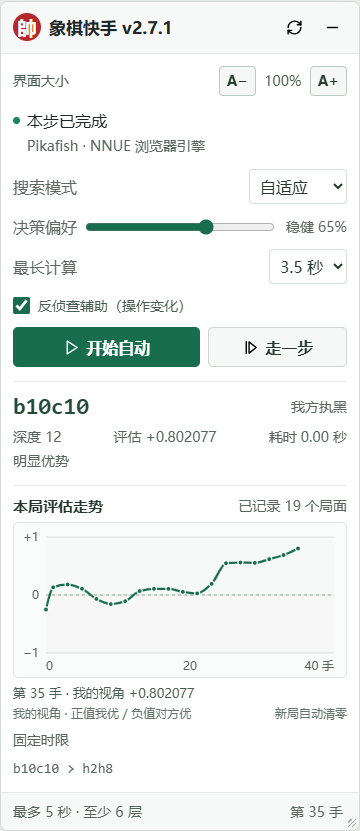
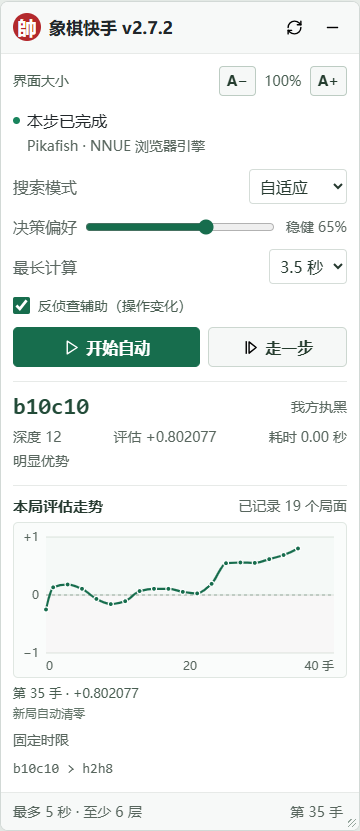
fix: remove redundant evaluation perspective labels in v2.7.2

Changed region(s): [[0.0306, 0.8123, 0.5194, 0.8724], [0.7639, 0.8424, 0.9778, 0.8724], [0.4583, 0.0301, 0.4889, 0.0602]]

diff --git a/安装说明.html b/安装说明.html
@@ -2,17 +2,17 @@
 <html lang="zh-CN">
 <head>
 <meta charset="utf-8"><meta name="viewport" content="width=device-width,initial-scale=1">
-<title>象棋快手 v2.7.1 · 安装说明</title>
+<title>象棋快手 v2.7.2 · 安装说明</title>
 <style>*{box-sizing:border-box}body{margin:0;background:#f5f7f6;color:#24352b;font:16px/1.8 "Microsoft YaHei",system-ui,sans-serif}main{max-width:780px;margin:36px auto;padding:0 24px 40px}header{display:flex;gap:14px;align-items:center;border-bottom:1px solid #d9e0db;padding-bottom:20px}header img{width:54px;height:54px}h1{margin:0;font-size:27px}header p{margin:0;color:#6b776f}h2{font-size:19px;margin:26px 0 8px}ol{padding-left:24px}li{margin:10px 0}code{font:14px Consolas,monospace;background:#e9eeeb;padding:3px 7px;border-radius:3px;overflow-wrap:anywhere}a{color:#176d4d}table{width:100%;border-collapse:collapse;margin:12px 0}th,td{text-align:left;padding:10px 12px;border-bottom:1px solid #d9e0db}th{color:#637268;font-weight:500}p{margin:10px 0}footer{margin-top:28px;border-top:1px solid #d9e0db;padding-top:16px;font-size:14px}@media(max-width:500px){main{margin-top:20px;padding:0 16px 28px}h1{font-size:23px}th,td{padding:8px 5px}}</style>
 </head>
 <body><main>
-<header><img src="extension/icons/icon128.png" alt="象棋快手图标"><div><h1>象棋快手 v2.7.1</h1><p>Pikafish NNUE · 对局、题库与棋盘分析</p></div></header>
+<header><img src="extension/icons/icon128.png" alt="象棋快手图标"><div><h1>象棋快手 v2.7.2</h1><p>Pikafish NNUE · 对局、题库与棋盘分析</p></div></header>
 <h2>安装与更新</h2>
 <ol>
-<li>从 <a href="https://github.com/zhaopengbo-0702/xiangqi-quick-hands/releases/latest">GitHub Releases</a> 下载 <code>xiangqi-quick-hands-v2.7.1.zip</code> 并解压。</li>
+<li>从 <a href="https://github.com/zhaopengbo-0702/xiangqi-quick-hands/releases/latest">GitHub Releases</a> 下载 <code>xiangqi-quick-hands-v2.7.2.zip</code> 并解压。</li>
 <li>Edge 打开 <code>edge://extensions</code>，Chrome 打开 <code>chrome://extensions</code>，开启“开发人员模式”。</li>
 <li>点击“加载解压缩的扩展”，选择直接包含 <code>manifest.json</code> 的目录。源码安装时选择 <a href="extension/">extension 文件夹</a>，保留安装目录供浏览器加载。</li>
-<li>更新旧版时，用新版文件替换原目录并点击“重新加载”。刷新棋盘，确认面板标题显示 v2.7.1。</li>
+<li>更新旧版时，用新版文件替换原目录并点击“重新加载”。刷新棋盘，确认面板标题显示 v2.7.2。</li>
 <li>进入自己的对局，等待“引擎就绪”，点击“开始自动”或“走一步”。首次预热需要数秒。</li>
 </ol>
 <p>适用 Chrome / Edge 116 或更新版本。浏览器独立包内含 WASM 引擎、NNUE、对应源码和许可证。</p>
@@ -20,7 +20,7 @@
 <p>“搜索模式”“最长计算”和自适应模式下的“决策偏好”可随时调整，新设置从下一步生效。滑条百分比实时更新，松开后保存，刷新后恢复。</p>
 <table><tbody><tr><th>推荐模式</th><td>自适应</td></tr><tr><th>决策偏好</th><td>65%</td></tr><tr><th>最长计算</th><td>3.5 秒</td></tr><tr><th>普通搜索深度</th><td>至少 6 层</td></tr></tbody></table>
 <h2>本局评估走势</h2>
-<p>主面板平滑走势曲线随每次成功计算更新。横轴是评估局面的手数，每手表示一个单方步；纵轴固定为 −1 至 +1。参与对局时自动按自己控制的棋子显示，图例和提示统一标注“我的视角”。正值自己有利、负值对方有利，零线表示均势。观战或分析棋盘没有可确认的我方身份时显示“分析视角”。</p>
+<p>主面板平滑走势曲线随每次成功计算更新。横轴是评估局面的手数，每手表示一个单方步；纵轴固定为 −1 至 +1。参与对局时自动按自己控制的棋子计算，正值自己有利、负值对方有利，零线表示均势。记录点提示直接显示手数和评估值，图下仅保留新局自动清零提示。</p>
 <p>连线采用保形分段三次 Hermite / PCHIP 插值，一阶导数连续且段内保持在相邻样点范围内。平滑仅影响连线，实际评估点不变。</p>
 <p>普通评分沿用现有六位局势指数；非零杀棋点标记在 ±1，参与对局时标注我方或对方杀棋，“杀棋 0”跳过图表记录。数字评估继续显示“杀棋 N”。同一手再次计算更新对应点，暂停、收起面板和重连引擎后保留本局记录。</p>
 <p>启动后会真实计算本局初始局面，补齐第 0 手评估；开局采集只做分析，不落子，也不预设零分。执黑时同样先采集开局点，再记录正常行棋评估。采集失败不会暂停自动行棋，稍后重试。</p>
@@ -43,5 +43,5 @@
 <h2>连接恢复</h2>
 <p>更新扩展后刷新棋盘，等待新面板就绪。页面提示“插件已更新，请重新连接”时，可点击浏览器工具栏的扩展按钮恢复面板，再重新开启自动行棋。</p>
 <p>开发工具、原生兼容性和旧版组件管理见 <a href="CONTRIBUTING.md">开发说明</a>。源码与网络权重的许可见 <a href="THIRD_PARTY_NOTICES.md">第三方授权与来源</a>。</p>
-<footer><a href="README.md">完整说明</a> · <a href="CHANGELOG.md">逐版更新记录</a> · 版本 2.7.1</footer>
+<footer><a href="README.md">完整说明</a> · <a href="CHANGELOG.md">逐版更新记录</a> · 版本 2.7.2</footer>
 </main></body></html>

diff --git a/extension/content.js b/extension/content.js
@@ -63,7 +63,7 @@
   <g class="evaluation-axis"><text x="25" y="18" text-anchor="end">+1</text><text x="25" y="76" text-anchor="end">0</text><text x="25" y="134" text-anchor="end">−1</text><text id="evaluation-x-start" x="32" y="147">0</text><text id="evaluation-x-middle" x="176" y="147" text-anchor="middle">5</text><text id="evaluation-x-end" x="320" y="147" text-anchor="end">10 手</text></g>
   <rect x="32" y="14" width="288" height="58" fill="#176d4d" fill-opacity=".025"/><rect x="32" y="72" width="288" height="58" fill="#ad393d" fill-opacity=".025"/>
   <path id="evaluation-line" class="evaluation-line" d=""/><g id="evaluation-points"></g><path id="evaluation-cursor" class="hidden" d=""/><circle id="evaluation-active" class="hidden" r="4"/>
-  </svg><div id="evaluation-empty">等待首个评估</div></div><div id="evaluation-tooltip">每次有效计算记录一个点</div><div class="evaluation-legend"><span id="evaluation-viewpoint">我的视角 · 正值我优 / 负值对方优</span><span>新局自动清零</span></div></section>
+  </svg><div id="evaluation-empty">等待首个评估</div></div><div id="evaluation-tooltip">每次有效计算记录一个点</div><div class="evaluation-legend"><span>新局自动清零</span></div></section>
   <div class="importance"><span id="importance">重要性 -</span><span id="allocated">预算 -</span></div><div id="pv" class="pv"></div>
   <div id="stop-reason" class="stop-reason hidden" role="status"></div>
   </main><footer><span id="footer">最多 5 秒 · 至少 6 层</span><span id="plies">第 0 手</span></footer></div>
@@ -177,10 +177,9 @@
   const chartY = value => 72 - 58 * value;
   const chartCoordinate = value => Number(value.toFixed(6));
   const signedEvaluation = value => `${value > 0 ? '+' : ''}${value.toFixed(6)}`;
-  const evaluationPerspectiveLabel = () => evaluationControlled ? '我的视角' : '分析视角';
   function evaluationPointLabel(point) {
     const favored = evaluationControlled ? (point.value > 0 ? '我方' : '对方') : (point.value > 0 ? '红方' : '黑方');
-    return `第 ${point.ply} 手 · ${evaluationPerspectiveLabel()} ${point.mate ? `${favored}杀棋 ${Math.abs(point.mate)}` : signedEvaluation(point.value)}`;
+    return `第 ${point.ply} 手 · ${point.mate ? `${favored}杀棋 ${Math.abs(point.mate)}` : signedEvaluation(point.value)}`;
   }
   function showEvaluationPoint(index) {
     const point = evaluationPoints[index];
@@ -246,8 +245,7 @@
     evaluationChart.dataset.count = String(evaluationPoints.length);
     evaluationChart.dataset.perspective = evaluationSide;
     evaluationChart.dataset.controlled = String(evaluationControlled);
-    evaluationChart.setAttribute('aria-label', `本局评估曲线，${evaluationPerspectiveLabel()}，横轴为手数，纵轴范围负1到正1`);
-    $('evaluation-viewpoint').textContent = evaluationControlled ? '我的视角 · 正值我优 / 负值对方优' : '分析视角';
+    evaluationChart.setAttribute('aria-label', '本局评估曲线，横轴为手数，纵轴范围负1到正1');
     $('evaluation-empty').classList.toggle('hidden', evaluationPoints.length > 0);
     hideEvaluationPoint();
   }

diff --git a/README.md b/README.md
@@ -1,20 +1,20 @@
-# 象棋快手 v2.7.1
+# 象棋快手 v2.7.2
 
 [下载发行版](https://github.com/zhaopengbo-0702/xiangqi-quick-hands/releases/latest) · [逐版更新记录](CHANGELOG.md) · [评估公式](docs/evaluation-mapping.md) · [问题反馈](https://github.com/zhaopengbo-0702/xiangqi-quick-hands/issues) · [自动检查](https://github.com/zhaopengbo-0702/xiangqi-quick-hands/actions)
 
 Chrome / Edge 浏览器扩展，内置 Pikafish WASM 与 NNUE，支持 Xiangqi.com 对局、题库和棋盘分析。面板支持拖动、整体缩放、后台运行，以及运行中调整搜索参数。
 
-**2.7.1** 将本局评估走势改为“我的视角”，向上始终表示自己占优，并真实计算开局局面，补齐第 0 手评估点。评分沿用 PCHIP 插值，转换链、五段函数、系数和计算示例见 [评估转换与插值函数](docs/evaluation-mapping.md)。
+**2.7.2** 精简走势图中的重复说明，记录点提示直接显示手数与评估值。曲线继续按自己控制的棋子计算，并保留第 0 手真实开局采集。评分沿用 PCHIP 插值，转换链、五段函数、系数和计算示例见 [评估转换与插值函数](docs/evaluation-mapping.md)。
 
 ## 安装与更新
 
-使用 Chrome / Edge 116 或更新版本，下载 [xiangqi-quick-hands-v2.7.1.zip](https://github.com/zhaopengbo-0702/xiangqi-quick-hands/releases/download/v2.7.1/xiangqi-quick-hands-v2.7.1.zip)。安装包内含扩展、引擎、网络、对应源码和许可证。
+使用 Chrome / Edge 116 或更新版本，下载 [xiangqi-quick-hands-v2.7.2.zip](https://github.com/zhaopengbo-0702/xiangqi-quick-hands/releases/download/v2.7.2/xiangqi-quick-hands-v2.7.2.zip)。安装包内含扩展、引擎、网络、对应源码和许可证。
 
 1. 解压安装包，保留整个目录。
 2. Edge 打开 `edge://extensions`；Chrome 打开 `chrome://extensions`。
 3. 开启“开发人员模式”，点击“加载解压缩的扩展”，选择直接包含 `manifest.json` 的目录。
 4. 更新旧版时，用新版文件替换原目录，再点击扩展的“重新加载”。
-5. 刷新棋盘，确认面板标题为 **象棋快手 v2.7.1**。等待“引擎就绪”，点击“开始自动”或“走一步”。首次预热需要数秒。
+5. 刷新棋盘，确认面板标题为 **象棋快手 v2.7.2**。等待“引擎就绪”，点击“开始自动”或“走一步”。首次预热需要数秒。
 
 源码安装时选择仓库中的 `extension` 文件夹。浏览器工具栏的扩展按钮可以展开或收起面板，安装目录用于浏览器持续加载扩展。安装包使用带版本号的文件名，校验值见同版 `SHA256SUMS.txt`。
 
@@ -42,11 +42,11 @@ Chrome / Edge 浏览器扩展，内置 Pikafish WASM 与 NNUE，支持 Xiangqi.c
 
 ## 本局评估走势
 
-![象棋快手 v2.7.1 我的视角评估走势](docs/assets/evaluation-history-panel.png)
+![象棋快手 v2.7.2 本局评估走势](docs/assets/evaluation-history-panel.png)
 
 界面示例，使用模拟评估数据。
 
-主面板中的平滑走势曲线随每次成功计算更新，横轴为评估所在局面的手数，每一手表示一个单方步；纵轴固定为 −1 至 +1。参与对局时，曲线自动采用自己控制棋子的视角，面板统一显示“我的视角”。正值自己有利、负值对方有利，零线表示均势，双方轮流行棋时保持同一比较方向。观战或分析棋盘没有可确认的我方身份时，面板显示“分析视角”。
+主面板中的平滑走势曲线随每次成功计算更新，横轴为评估所在局面的手数，每一手表示一个单方步；纵轴固定为 −1 至 +1。参与对局时，曲线自动按自己控制的棋子计算，正值自己有利、负值对方有利，零线表示均势，双方轮流行棋时保持同一比较方向。普通记录点提示直接显示“第 35 手 · +0.743158”这样的手数与评估值，图下仅保留新局自动清零提示。
 
 连线采用保形分段三次 Hermite 插值（PCHIP），相邻段的一阶导数连续，段内保持在相邻两个评估点的数值范围内。曲线平滑仅影响连线，实际评估点不变。这一步用于连接对局中的记录点，与下节将原始评分转换为面板分数的 PCHIP 用途不同。全部节点斜率、Hermite 函数和 SVG 控制点公式见 [走势记录与平滑公式](docs/evaluation-history.md)。
 

diff --git a/docs/evaluation-history.md b/docs/evaluation-history.md
@@ -2,6 +2,8 @@
 
 自 v2.7.0 起，主面板用平滑曲线连接本局已计算局面的评估点；v2.7.1 将参与对局时的曲线改为“我的视角”，并加入初始局面的第 0 手真实采集。本页说明当前记录规则、视角变换、全部插值公式和 SVG 绘制关系，对应 [`extension/content.js`](../extension/content.js) 中的 `recordEvaluation`、`evaluationCurvePath` 与 `renderEvaluationHistory`。
 
+v2.7.2 精简走势图的重复文字：图下仅保留“新局自动清零”，普通记录点提示只显示手数与评估值，例如“第 35 手 · +0.743158”；杀棋点继续标明我方或对方。评分方向、开局采集与平滑函数保持原规则。
+
 ## 实际记录了什么
 
 每次成功计算记录一个点，横坐标是该次计算开始时棋盘的 `moveCount`。每一手表示一个单方步，开局局面记为第 0 手。同一手再次计算会更新原记录，然后按手数排序。鼠标指向曲线或用键盘聚焦记录点时，可查看对应手数和实际评估。
@@ -25,7 +27,7 @@
 
 每次搜索的普通面板分数 $`s_i`$ 已完成原始评分的 tanh、PCHIP、上限限制和六位舍入，详细定义见 [评估转换与插值函数](evaluation-mapping.md)。该分数以搜索开始时的行棋方为正方向。这里不重新变换分数的大小，只统一整局曲线的比较方向。
 
-令 $`p`$ 为图表视角方。网站确认当前用户参与对局，即 `participant === true`，并能识别 `playerSide` 为红方或黑方时，$`p`$ 取我方控制棋子的颜色，面板标注“我的视角”。其他情况（例如没有我方身份的观战、分析棋盘）取红方作为统一分析基准，面板标注“分析视角”。令该记录局面的行棋方为 $`a_i`$，符号因子为：
+令 $`p`$ 为图表视角方。网站确认当前用户参与对局，即 `participant === true`，并能识别 `playerSide` 为红方或黑方时，$`p`$ 取我方控制棋子的颜色。其他情况（例如没有我方身份的观战、分析棋盘）取红方作为统一分析基准。面板不重复显示视角标签。令该记录局面的行棋方为 $`a_i`$，符号因子为：
 
 ```math
 \sigma_i=
@@ -46,9 +48,9 @@ v_i&=\sigma_i\,\mathrm{sgn}(m_i),
 \end{aligned}
 ```
 
-参与对局时，曲线正值表示自己有利，负值表示对方有利。执黑时 $`p`$ 为黑方，所以轮到黑方的正分直接绘在零线上方；轮到红方的评分则取相反数，整局方向不会随双方轮流行棋而翻转。图例与提示统一显示“我的视角”，不再附加执子颜色。没有我方身份的分析模式以红方为正方向。
+参与对局时，曲线正值表示自己有利，负值表示对方有利。执黑时 $`p`$ 为黑方，所以轮到黑方的正分直接绘在零线上方；轮到红方的评分则取相反数，整局方向不会随双方轮流行棋而翻转。没有我方身份的分析模式以红方为正方向。
 
-同一局记录保留期间，如果网站识别到的视角方改变，已有记录整体取相反数，并同步更新图例、提示和杀棋方向。这样所有记录始终使用同一个当前视角，不会将两种方向混在一条曲线中。
+同一局记录保留期间，如果网站识别到的视角方改变，已有记录整体取相反数，并同步更新提示值和杀棋方向。这样所有记录始终使用同一个当前视角，不会将两种方向混在一条曲线中。
 
 普通点满足 $`|v_i|\le0.999999`$；非零杀棋点绘于 $`+1`$ 或 $`-1`$，参与对局时标注“我方杀棋”或“对方杀棋”及杀棋步数。`mate = 0` 跳过图表记录，数字评估仍按引擎结果显示“杀棋 0”。数字评估本身继续采用该次搜索行棋方的视角；图表通过上述符号变换统一整局方向。
 

diff --git a/CHANGELOG.md b/CHANGELOG.md
@@ -2,7 +2,20 @@
 
 本文件记录已发布版本的用户可见变化、关键修复与验证范围。各版完整发布说明保存在 [`.github/releases`](.github/releases)，下载与校验值见 [GitHub Releases](https://github.com/zhaopengbo-0702/xiangqi-quick-hands/releases)。
 
-当前提供浏览器独立包 `xiangqi-quick-hands-v2.7.1.zip` 和校验文件 `SHA256SUMS.txt`，各版安装包均标明版本。历史 Windows 完整包已停止分发。2.3.1 的开发改动合并于 2.4.0 发布。
+当前提供浏览器独立包 `xiangqi-quick-hands-v2.7.2.zip` 和校验文件 `SHA256SUMS.txt`，各版安装包均标明版本。历史 Windows 完整包已停止分发。2.3.1 的开发改动合并于 2.4.0 发布。
+
+## 2.7.2
+
+### 精简走势图文字
+
+- 移除图下重复的视角与正负分说明，仅保留“新局自动清零”提示。
+- 普通记录点提示直接显示手数和评估值，例如“第 35 手 · +0.743158”；杀棋记录继续标明我方或对方。
+- 继续按自己控制的棋子计算整局评分，保留第 0 手真实开局采集、新局清零和 PCHIP 平滑曲线。
+- 面板、首页、安装说明与浏览器安装包统一标注 v2.7.2。
+
+验证：完整回归 257/257、真实浏览器 18 项检查及扩展完整性检查通过；安装包版本、源文件和 SHA256 校验通过。
+
+完整说明：[2.7.2](.github/releases/v2.7.2.md)。
 
 ## 2.7.1
 

diff --git a/.github/releases/v2.7.2.md b/.github/releases/v2.7.2.md
@@ -1,0 +1,21 @@
+# 象棋快手 v2.7.2
+
+精简走势图中的重复文字，记录点直接展示手数与评估值。
+
+## 本次更新
+
+- 移除图下重复的视角标签和正负分说明，仅保留“新局自动清零”。
+- 普通记录点提示采用“第 35 手 · +0.743158”这样的简洁形式；杀棋点继续标明我方或对方。
+- 曲线仍按自己控制的棋子计算，保留开局第 0 手的真实引擎采集、新局清零和 PCHIP 平滑连线。
+- 面板、首页、安装说明与浏览器独立包同步标注 **v2.7.2**，安装包命名为 `xiangqi-quick-hands-v2.7.2.zip`。
+
+## 验证
+
+- 完整回归 257/257、真实浏览器 18 项检查通过，页面错误为零。
+- 扩展语法与引擎完整性检查、安装包版本和 SHA256 校验通过。
+
+## 更新
+
+下载 **`xiangqi-quick-hands-v2.7.2.zip`**，替换原插件目录中的文件，在浏览器扩展管理页点击“重新加载”，刷新棋盘后确认面板标题为 **v2.7.2**。
+
+逐版变化见 [CHANGELOG.md](https://github.com/zhaopengbo-0702/xiangqi-quick-hands/blob/main/CHANGELOG.md)，评分与平滑公式见[数学说明](https://github.com/zhaopengbo-0702/xiangqi-quick-hands/blob/main/docs/evaluation-history.md)。
